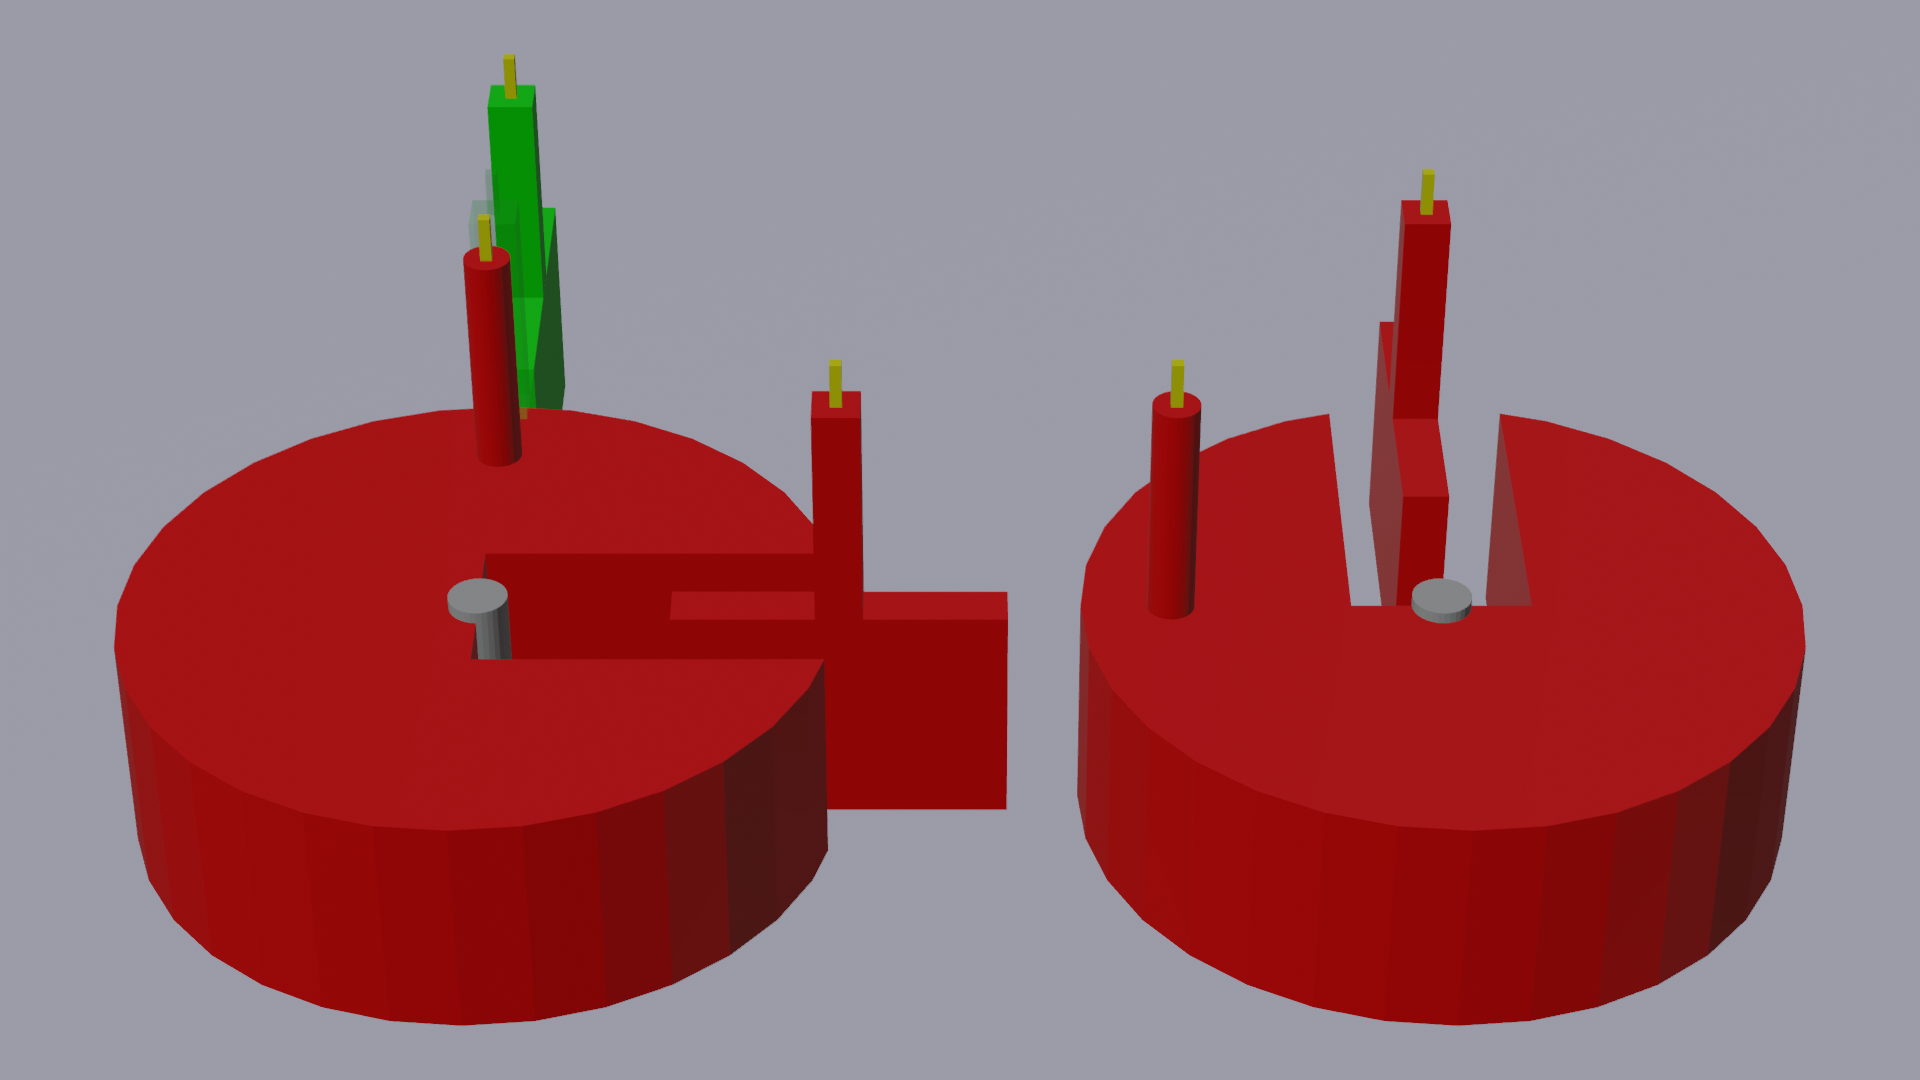
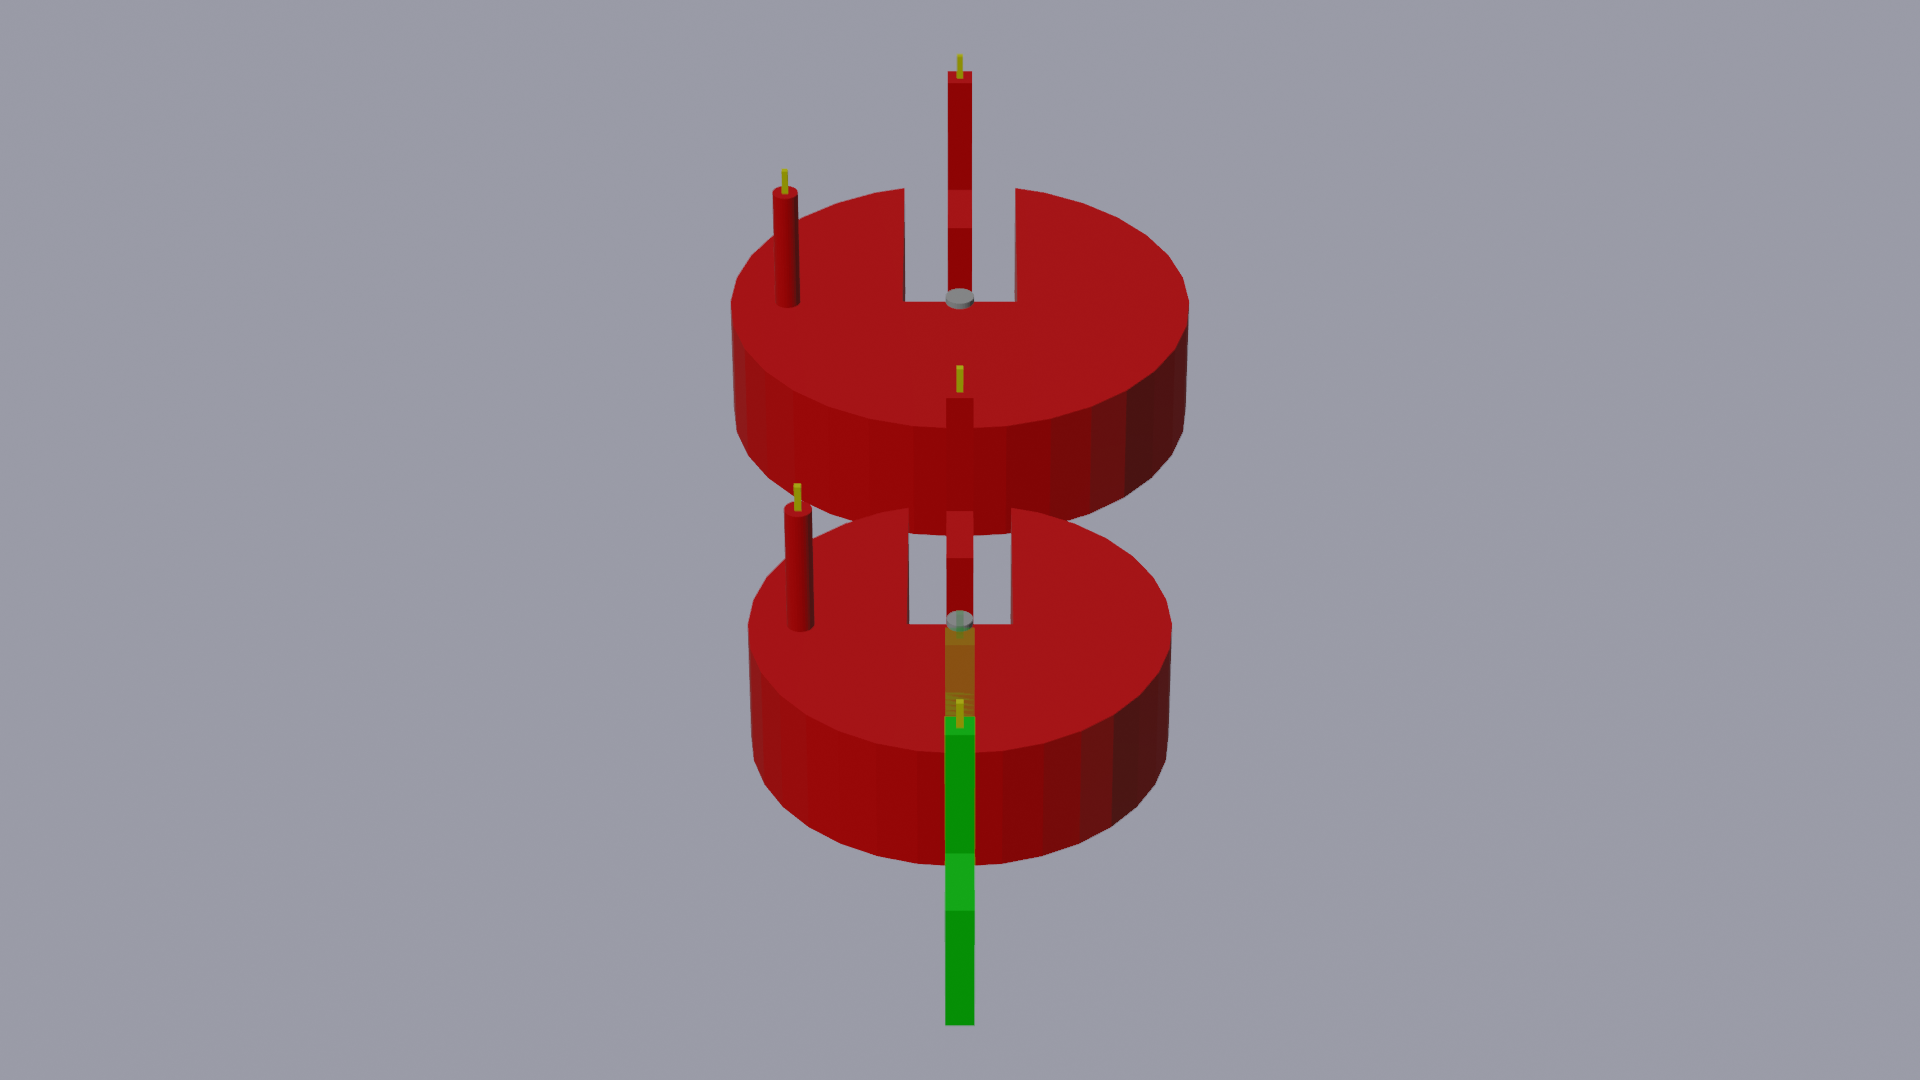
refactor: LockboxRandomSampler * add radius_interval * add get_rotation dict * make first slider direction random

diff --git a/src/sampling.py b/src/sampling.py
@@ -587,50 +587,51 @@ class LockboxRandomSampler(PuzzleSampler):
         self.iterations = config["iterations"]
         self.slider_length = config["slider_length"]
         self.slider_width = config["slider_width"]
-        self.previous_direction = "E"
+        self.radius_interval = config["radius_interval"]
+        self.previous_direction = ""
         self.available_directions = {
             "N": ["N", "E", "W"],
             "E": ["N", "E", "S"],
             "S": ["E", "S", "W"],
             "W": ["N", "S", "W"],
         }
+        self.get_rotation = {
+            "N": calc.RAD90,
+            "E": 0,
+            "S": -calc.RAD90,
+            "W": calc.RAD180,
+        }
 
     def add_slot_disc_and_slider(self, direction):
-        location_slot_disc = (self.start_point[0], self.start_point[1], 0.5)
-        if direction == "N":
-            rotation = calc.RAD90
-            location_slider = (self.start_point[0], self.start_point[1] + 1.5, 0.5)
-            self.start_point = calc.tuple_add(self.start_point, (0, 4))
-        elif direction == "E":
-            rotation = 0
-            location_slider = (self.start_point[0] + 1.5, self.start_point[1], 0.5)
-            self.start_point = calc.tuple_add(self.start_point, (4, 0))
-        elif direction == "S":
-            rotation = -calc.RAD90
-            location_slider = (self.start_point[0], self.start_point[1] - 1.5, 0.5)
-            self.start_point = calc.tuple_add(self.start_point, (0, -4))
-        else:  # direction == "W"
-            rotation = calc.RAD180
-            location_slider = (self.start_point[0] - 1.5, self.start_point[1], 0.5)
-            self.start_point = calc.tuple_add(self.start_point, (-4, 0))
+        radius = self.radius_interval[0] + random() * (self.radius_interval[1] - self.radius_interval[0])
+        rotation = self.get_rotation[direction]
 
-        self.world.new_link(location_slot_disc, (0, 0, rotation), (3, 3, 1), 'revolute', -calc.RAD180, calc.RAD180,
-                            blend_file=self.mesh, object_name="slot_disc", create_handle=self.create_handle,
-                            hinge_diameter=0.25)
-        self.world.new_link(location_slider, (0, 0, rotation), (self.slider_length, self.slider_width, 1),
+        offset_start = calc.tuple_scale(calc.DIRECTION_VECTOR_2D[self.previous_direction], radius + 1)
+        start_point = calc.tuple_add(self.start_point, offset_start)
+
+        slot_disc_location = (start_point[0], start_point[1], 0.5)
+        self.world.new_link(slot_disc_location, (0, 0, rotation), (radius * 2, radius * 2, 1), 'revolute',
+                            -calc.RAD180, calc.RAD180, blend_file=self.mesh, object_name="slot_disc",
+                            create_handle=self.create_handle, hinge_diameter=radius * 0.125)
+
+        offset_slider = calc.tuple_scale(calc.DIRECTION_VECTOR_2D[direction], radius)
+        slider_location = (start_point[0] + offset_slider[0], start_point[1] + offset_slider[1], 0.5)
+        self.world.new_link(slider_location, (0, 0, rotation), (self.slider_length, self.slider_width, 1),
                             'prismatic', 0, 1, create_handle=self.create_handle, joint_axis=(1, 0, 0))
+        return slider_location
 
     def choose_links(self):
         directions = self.available_directions[self.previous_direction]
         shuffle(directions)
         for random_direction in directions:
-            self.add_slot_disc_and_slider(random_direction)
+            new_start = self.add_slot_disc_and_slider(random_direction)
             self.start_state.append(0)
             self.start_state.append(0)
             self.goal_space.append((-calc.RAD180, calc.RAD180))
             self.goal_space.append((0, 1))
             self.world.export(concave_collision_mesh=True)
             if solve(self.world.urdf_path, self.start_state, None, only_check_start_state_validity=True) == 0:
+                self.start_point = new_start
                 self.previous_direction = random_direction
                 return 0
             else:
@@ -643,11 +644,12 @@ class LockboxRandomSampler(PuzzleSampler):
         return 1
 
     def build(self):
-        self.start_point = (0.5, 0.5)
         self.world.initialize(self.floor_size)
 
         # first slider
-        self.world.new_link((self.start_point[0] - 2.5, self.start_point[1], 0.5), (0, 0, 0),
+        self.previous_direction = choice(("N", "E", "S", "W"))
+        rotation = self.get_rotation[self.previous_direction]
+        self.world.new_link((self.start_point[0], self.start_point[1], 0.5), (0, 0, rotation),
                             (self.slider_length, self.slider_width, 1), 'prismatic', 0, 1,
                             create_handle=self.create_handle, joint_axis=(1, 0, 0))
         self.world.create_goal_duplicate((1, 0, 0))
@@ -656,6 +658,7 @@ class LockboxRandomSampler(PuzzleSampler):
 
         for i in range(self.iterations):
             if self.choose_links() == 1:
+                print("LockboxRandomSampler failed!")
                 return 1
 
         self.world.render_image()

diff --git a/puzzle_generator.py b/puzzle_generator.py
@@ -58,6 +58,7 @@ sampler_config = {
     "iterations": 2,
     "slider_length": 1.4,
     "slider_width": 0.2,
+    "radius_interval": (1, 3),
 
     # this part is only required for EscapeRoomSampler and MoveTwiceSampler
     "robot_mesh": "input-meshes/droids.blend",  # both absolute and relative paths are allowed
